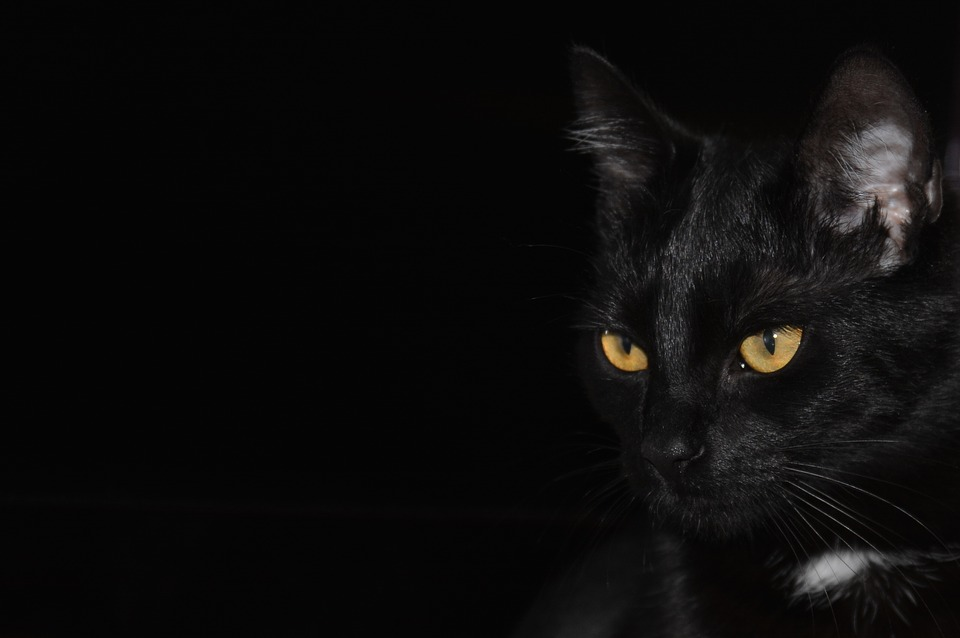
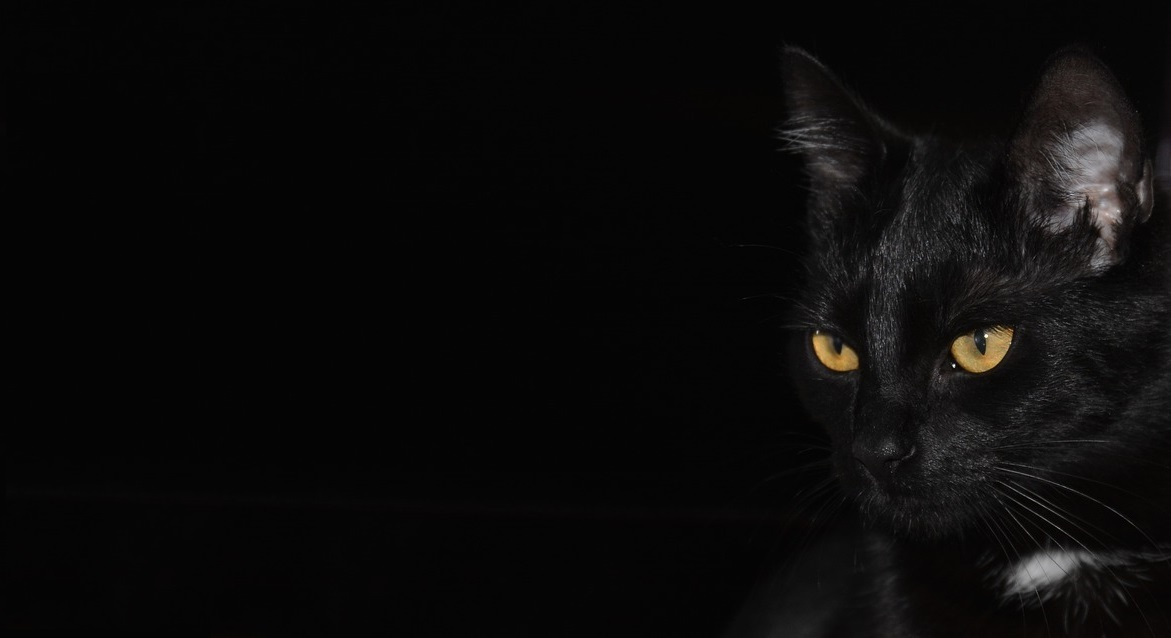
g

diff --git a/index.html b/index.html
@@ -62,8 +62,8 @@ body, h1,h2,h3,h4,h5,h6 {font-family: "Montserrat", sans-serif}
   <!-- Header/Home -->
   <header class="w3-container w3-padding-32 w3-center w3-black" id="home">
     <h1 class="w3-jumbo"><span class="w3-hide-small">I'm</span> Abdullah Haidar.</h1>
-    <p>Photographer and Web Designer.</p>
-    <img src="images/cat.jpg" alt="boy" align='right' class="w3-image" width="992" height="1108">
+    <p>Computer Science Geek.</p>
+    <img src="images/cat.jpg" alt="boy" align='right'  width="1180" height="700">
   </header>
 
   <!-- About Section -->
